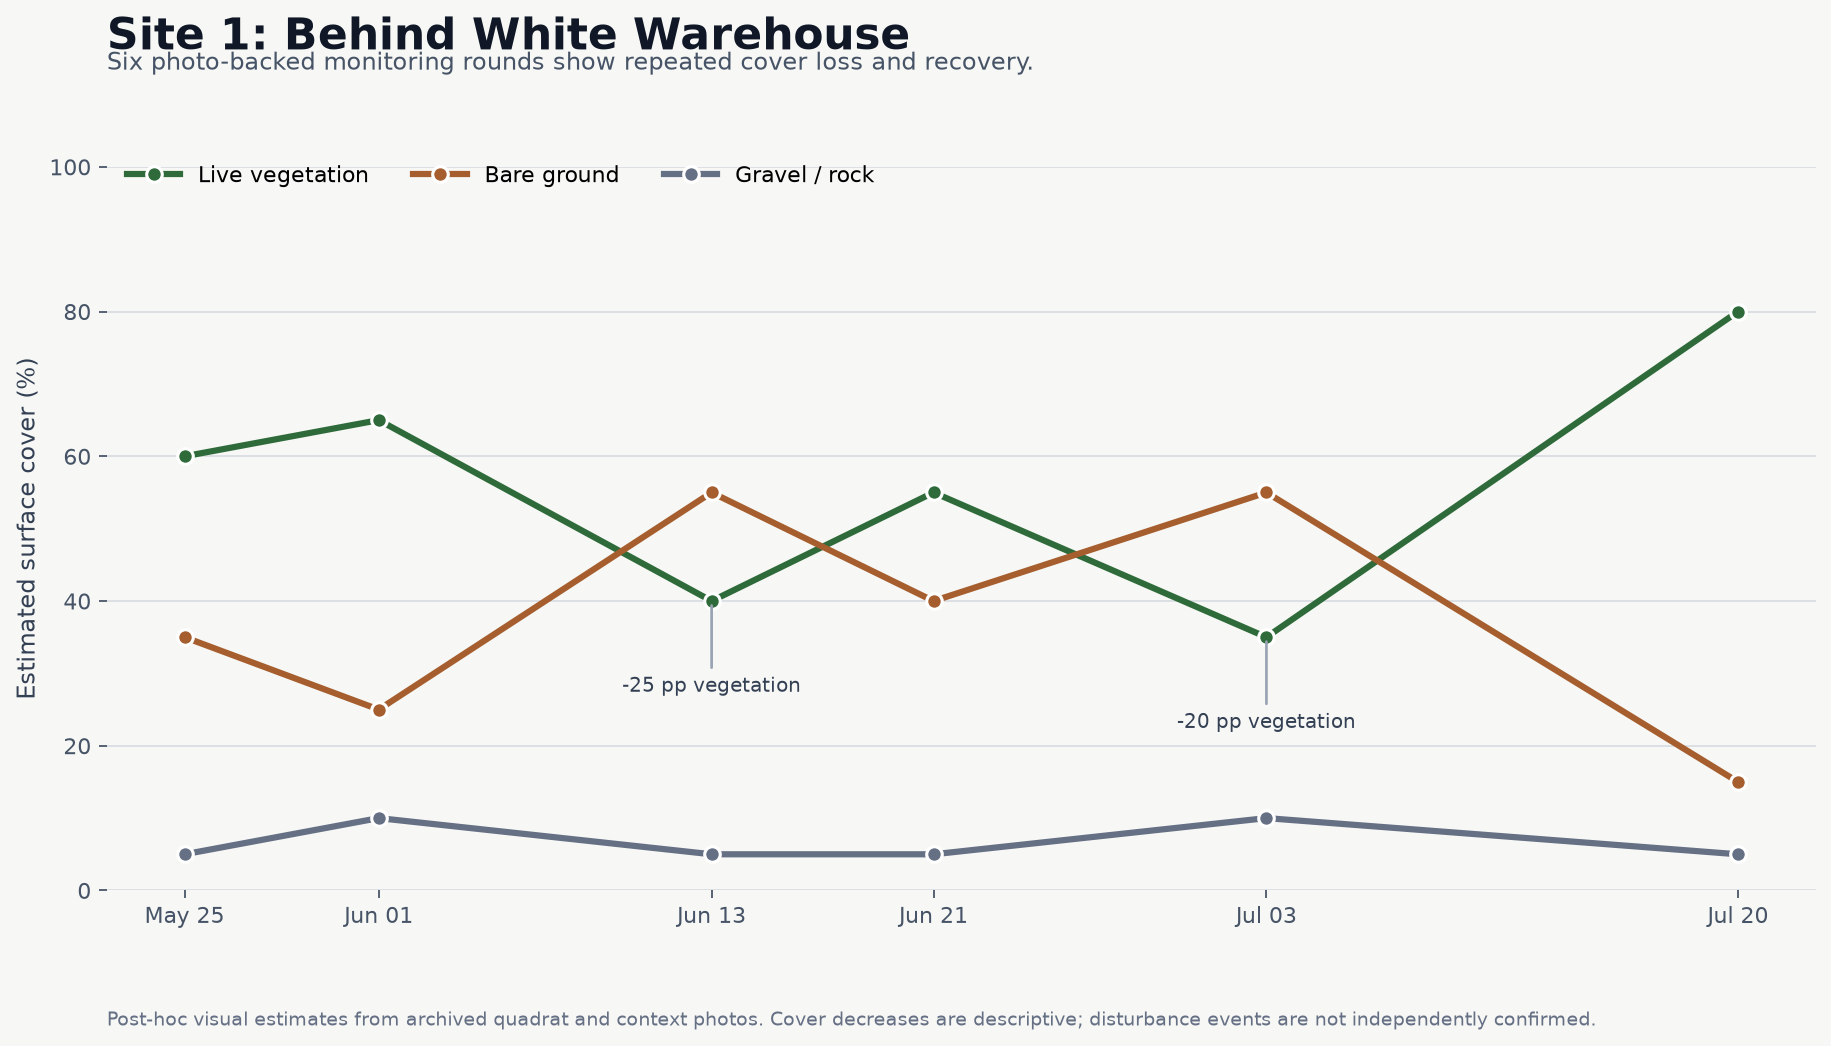
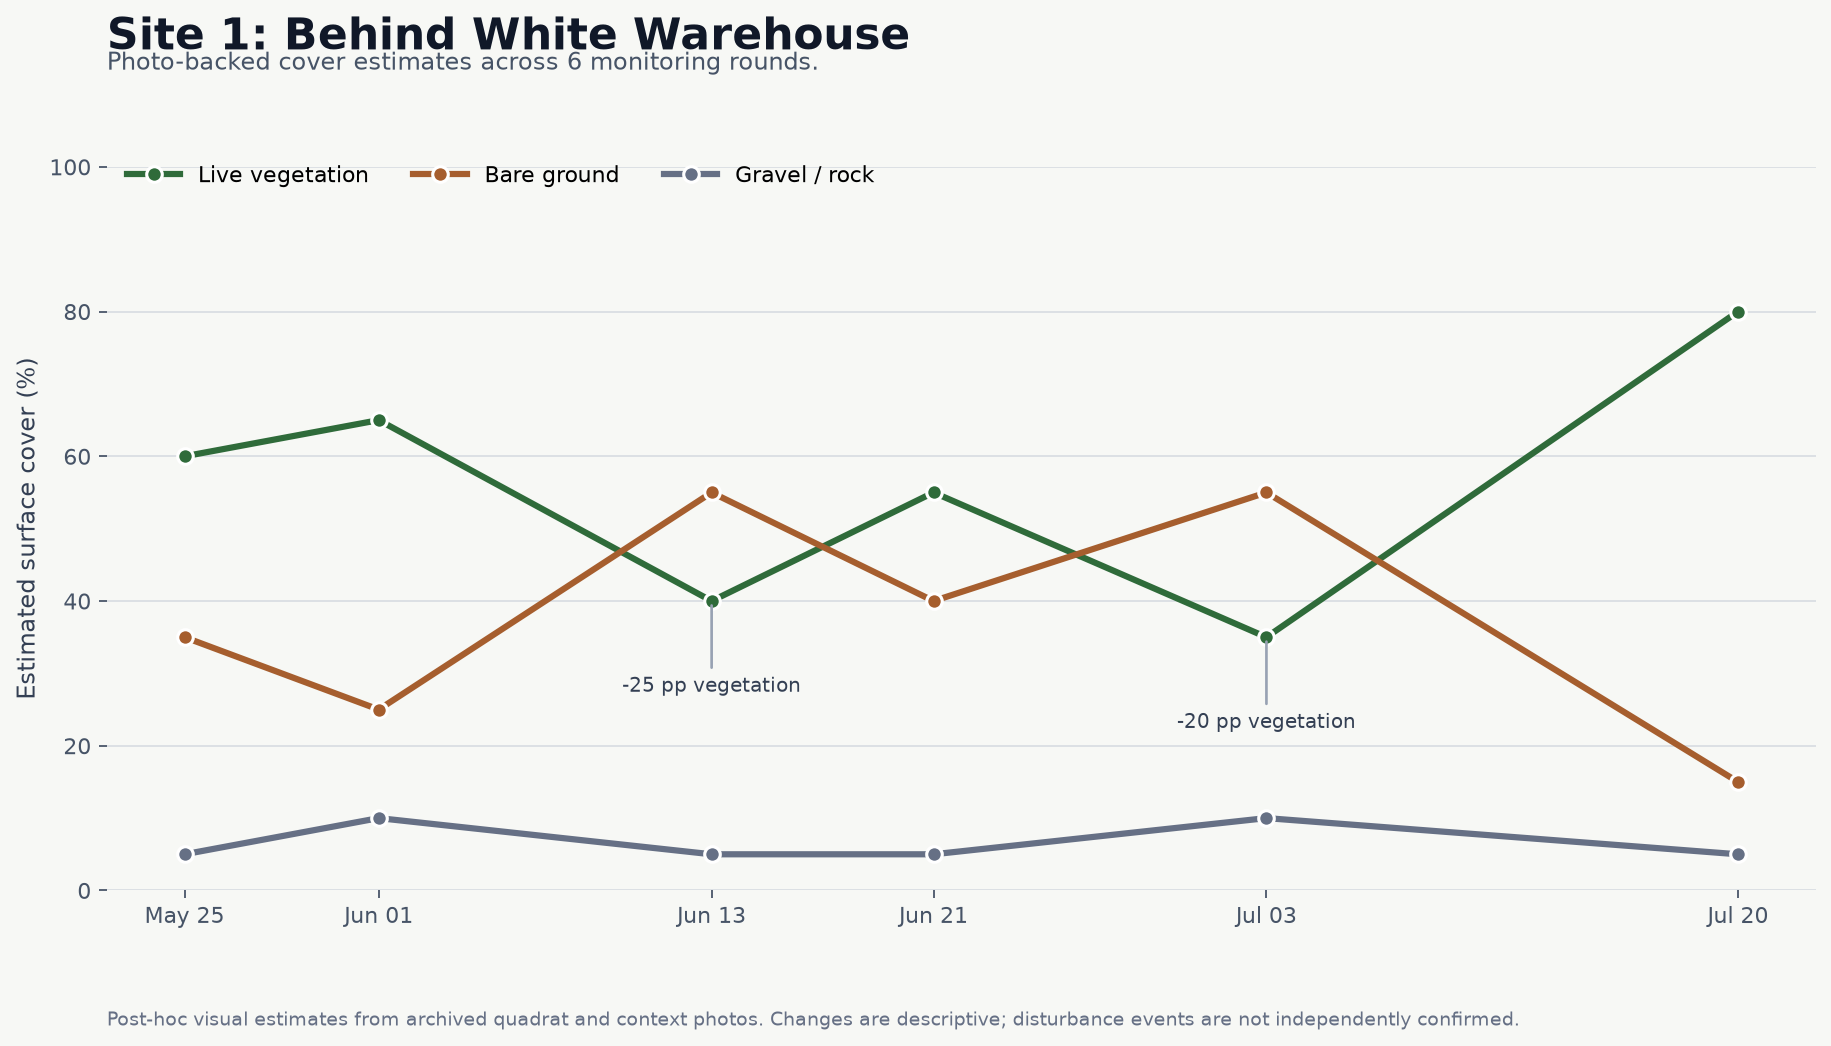
Review Site 2 longitudinal sequence

Changed region(s): [[0.0623, 0.0306, 0.5603, 0.0918], [0.4358, 0.9484, 0.8717, 0.979]]

diff --git a/scripts/build_longitudinal_outputs.py b/scripts/build_longitudinal_outputs.py
@@ -219,7 +219,7 @@ def build_cover_figure(table: pd.DataFrame, output_path: Path, site_id: str = "1
     fig.text(
         0.08,
         0.91,
-        "Six photo-backed monitoring rounds show repeated cover loss and recovery.",
+        f"Photo-backed cover estimates across {len(site_rows)} monitoring rounds.",
         ha="left",
         fontsize=11,
         color="#475467",
@@ -228,7 +228,7 @@ def build_cover_figure(table: pd.DataFrame, output_path: Path, site_id: str = "1
         0.08,
         0.025,
         "Post-hoc visual estimates from archived quadrat and context photos. "
-        "Cover decreases are descriptive; disturbance events are not independently confirmed.",
+        "Changes are descriptive; disturbance events are not independently confirmed.",
         ha="left",
         fontsize=8.5,
         color="#667085",

diff --git a/README.md b/README.md
@@ -7,7 +7,7 @@ The pipeline converts a real archive of repeatable field photography into saniti
 photo-backed observation records, validation results, and reproducible longitudinal outputs. The image
 archive can support later computer-vision experiments, but the current portfolio focus is data engineering.
 
-**11 sites | 63 visit folders | 62 photo-backed observations | 497 field photos | May 25-July 20, 2026**
+**11 sites | 63 visit folders | 62 photo-backed observations (12 reviewed) | 497 field photos | May 25-July 20, 2026**
 
 ## Project Status
 
@@ -27,9 +27,9 @@ Current implemented assets:
 - A 63-row upload-batch summary that preserves an empty Site 3 visit folder as an explicit issue
 - Validation for identifiers, site references, dates, counts, classification state, and private-link leakage
 - A private Google Sheets review workbook synchronized with the public CSV structure
-- A complete six-round Site 1 review, with 50 verified photo roles and uncertainty-aware cover estimates
+- Complete six-round reviews for Sites 1 and 2, with 102 verified photo roles and uncertainty-aware cover estimates
 - A reproducible analysis-ready join with explicit completeness and longitudinal fields
-- A generated Site 1 cover-change figure based on the reviewed photo sequence
+- Generated cover-change figures for the completed Site 1 and Site 2 sequences
 
 The project does not yet include a trained machine-learning model. Photo roles are deliberately marked
 `unclassified` until visual review; camera order is not treated as a reliable label.
@@ -43,6 +43,12 @@ show two substantial decreases in live vegetation cover followed by recovery. Th
 with mowing or clearing, but the repository does not promote those visual clues to confirmed disturbance
 events without independent evidence. This is the first completed sequence; the remaining observation
 shells preserve missing values until their photos are reviewed.
+
+![Site 2 cover estimates across six monitoring rounds](outputs/figures/site_02_cover_over_time.png)
+
+Site 2 provides a contrasting sequence: a mugwort-dominated roadside edge progresses toward nearly
+continuous herbaceous cover. The June 1 dip may partly reflect quadrat framing, so it remains a descriptive
+estimate rather than evidence of a disturbance event.
 
 ## Review Workflow
 
@@ -152,7 +158,7 @@ field_name,data_type,required,allowed_values,description,example
 ## Current Limitations
 
 - Species identifications are field estimates and are not expert-verified unless stated.
-- Fifty-six photo-backed observation shells still await visual review.
+- Fifty photo-backed observation shells still await visual review.
 - Photo workflows are being revised because Google Forms file uploads can be awkward for large iPhone images.
 - Successional-stage labels are interpretive and should not replace raw cover and taxon fields.
 - No trained ML model is included yet.
